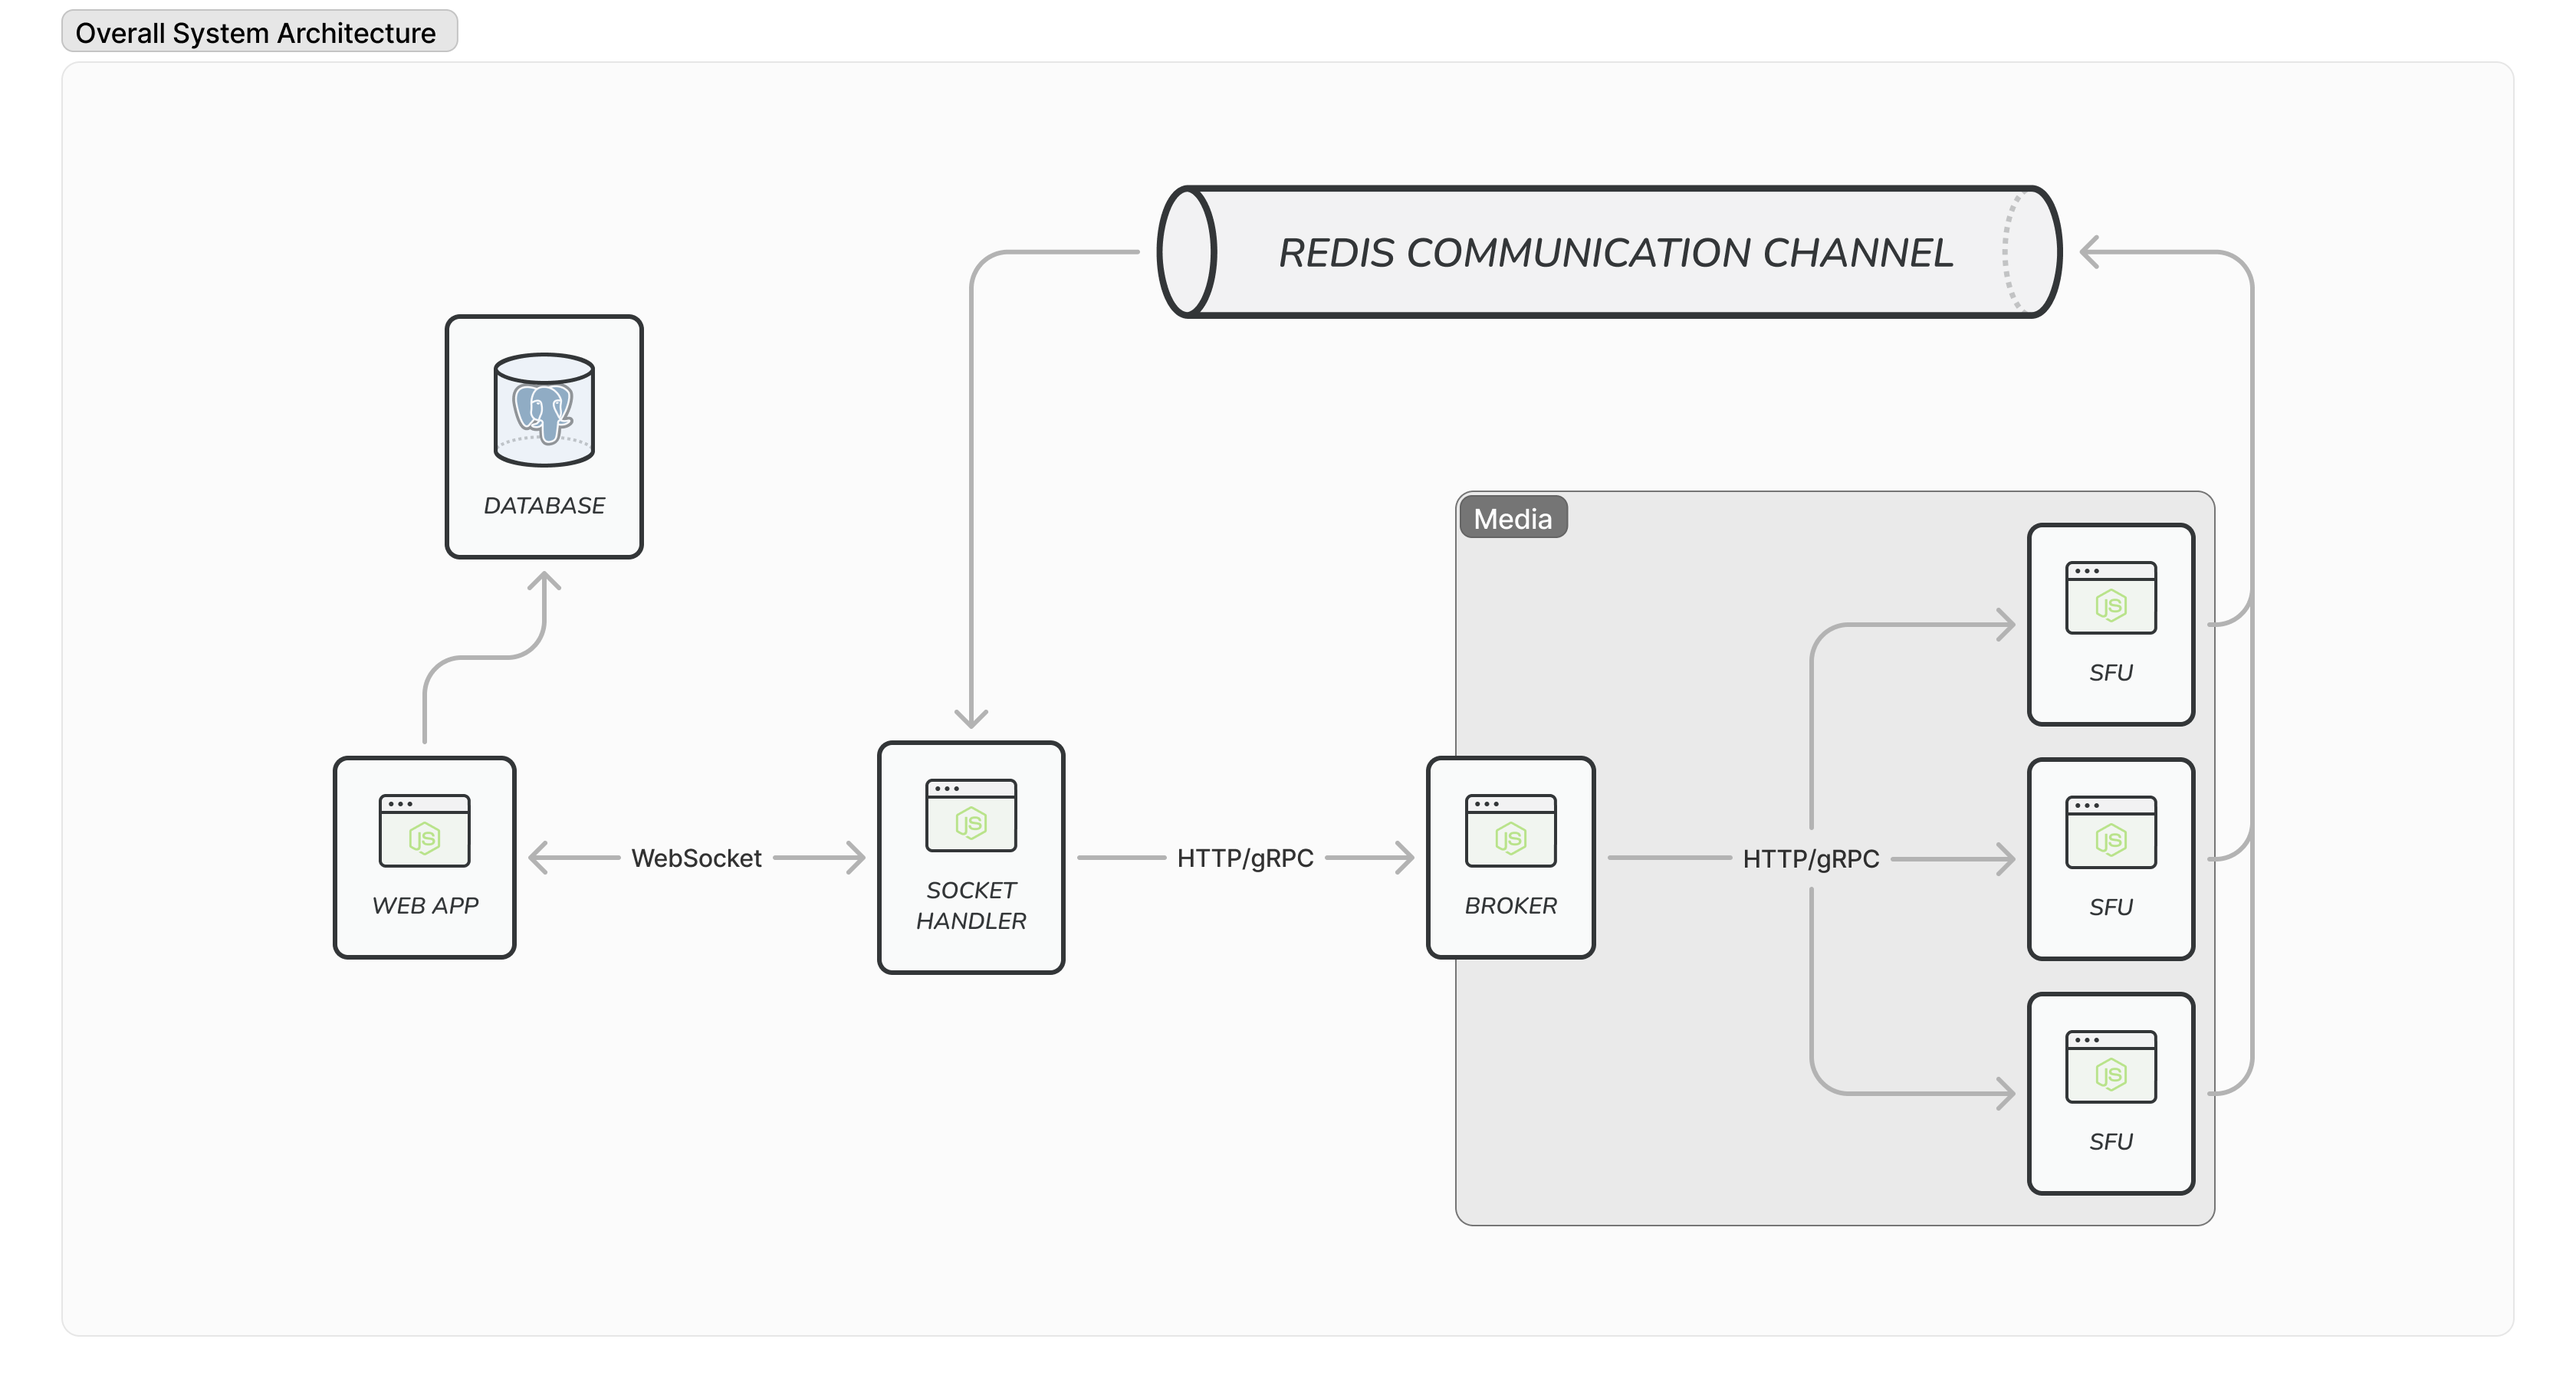
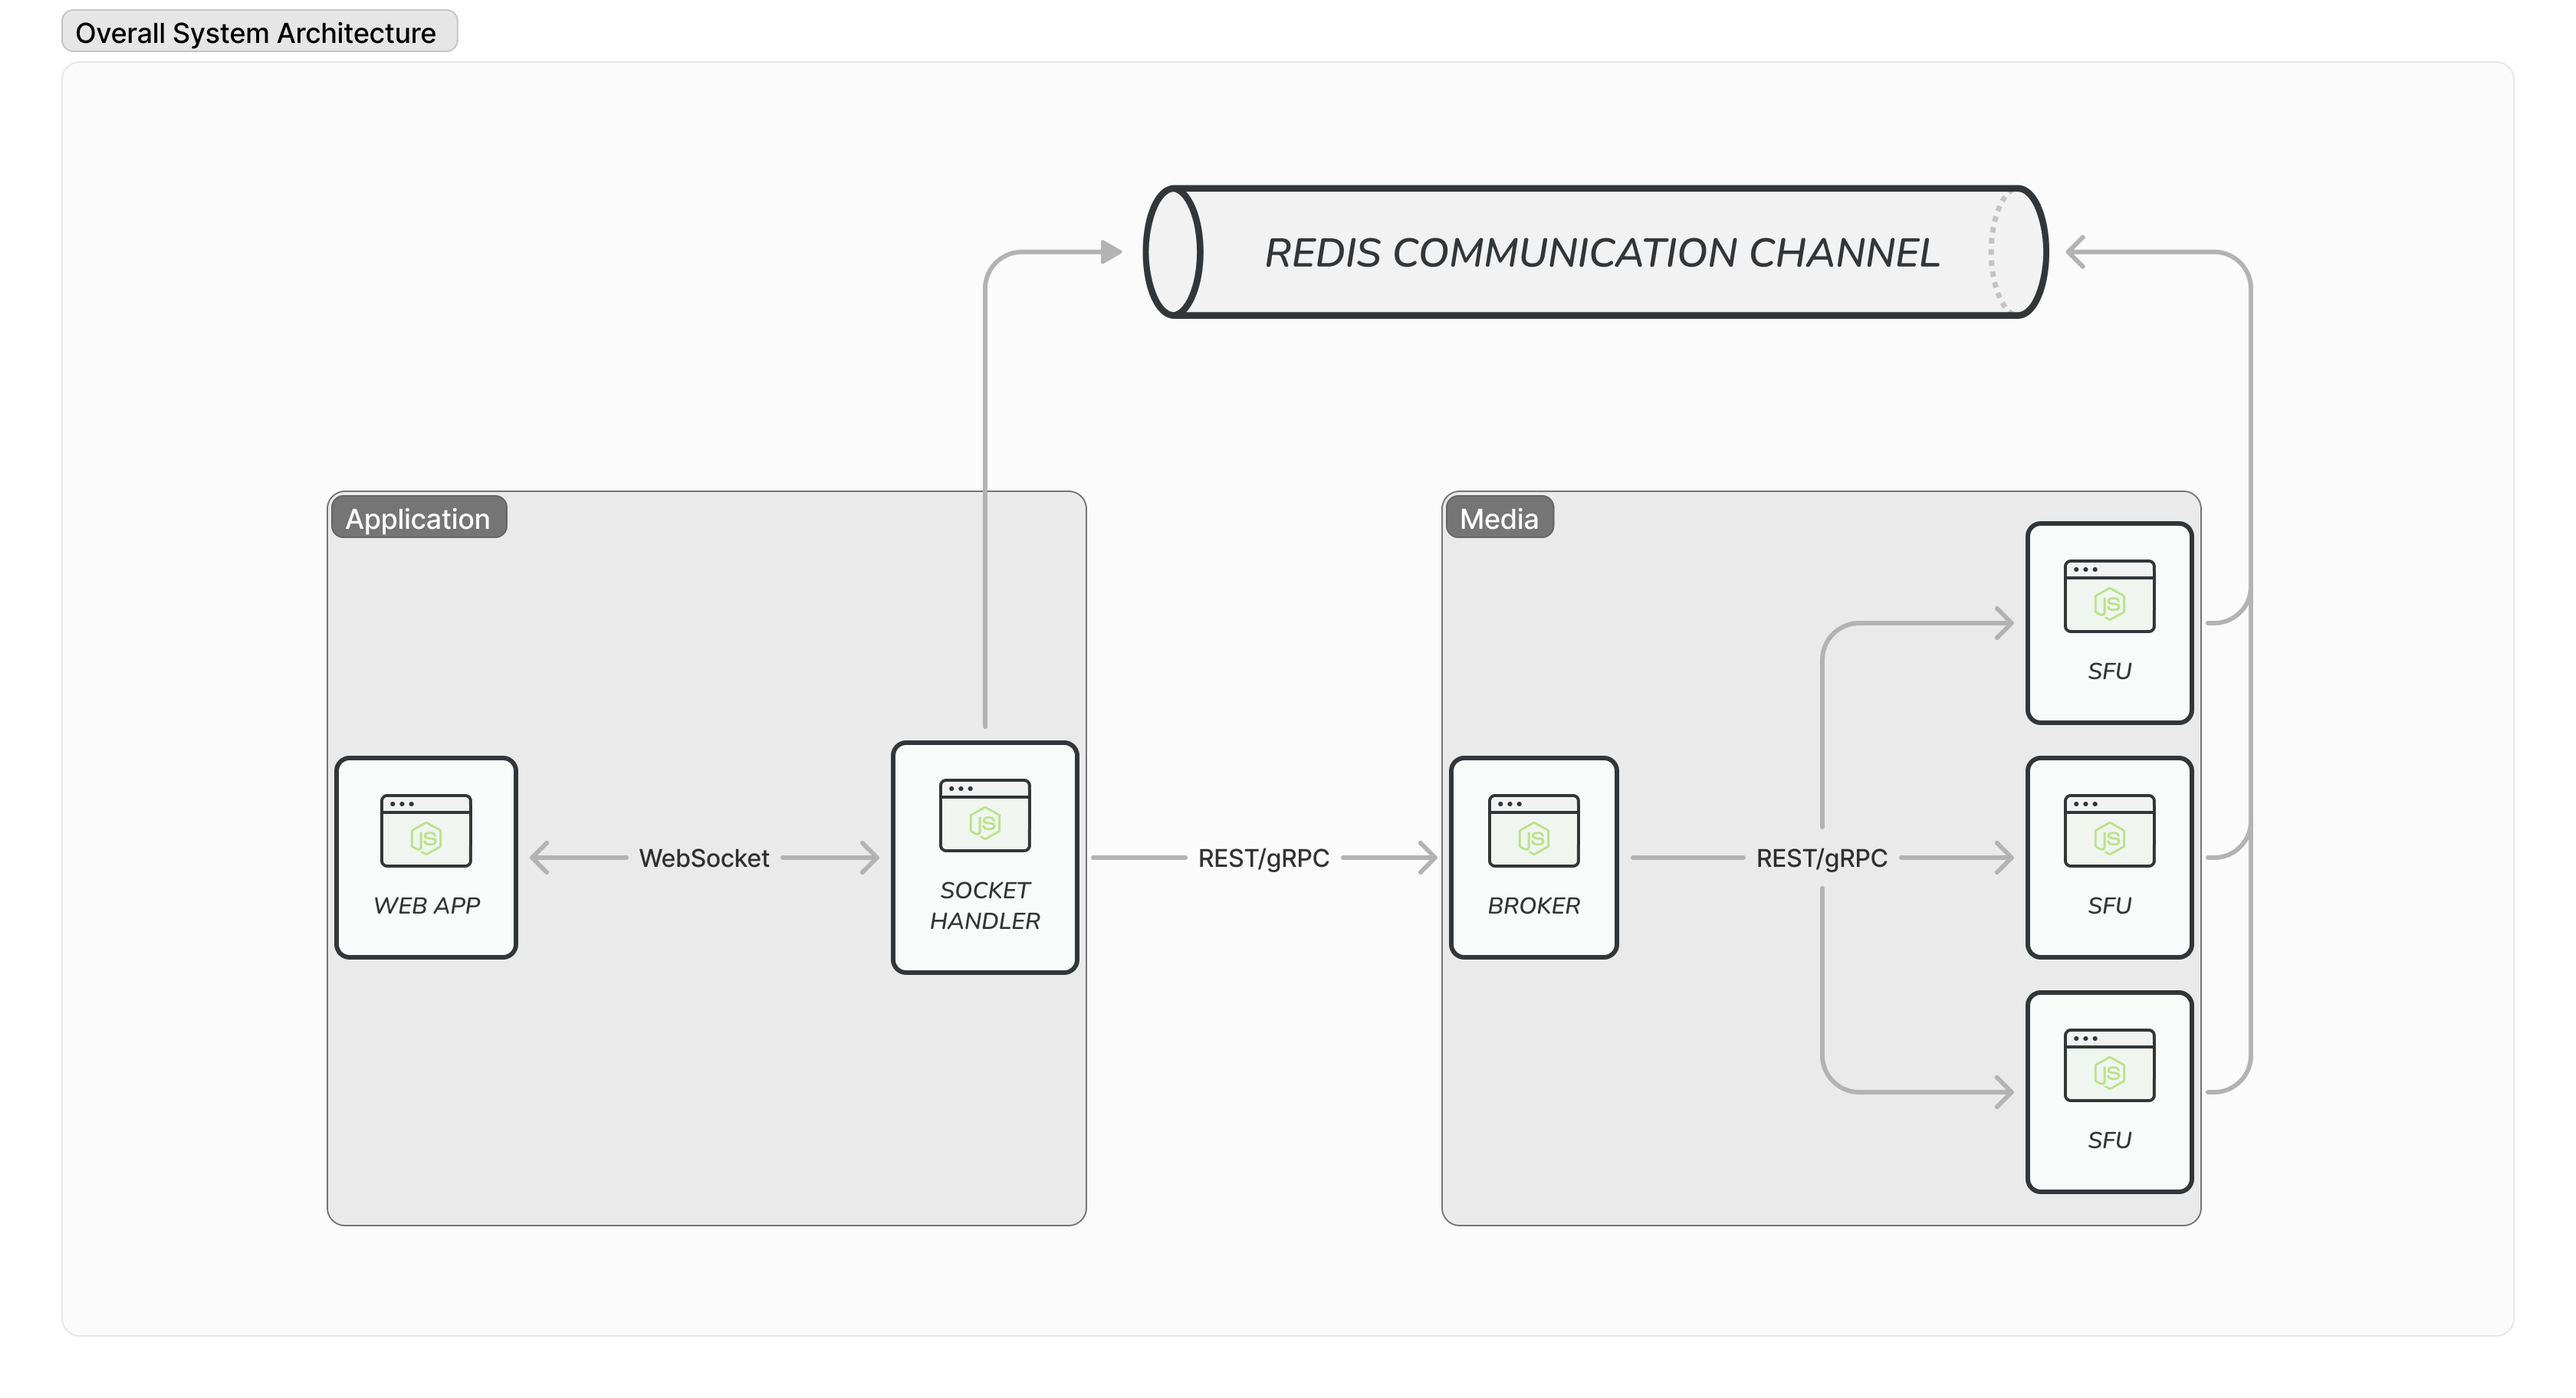
update about

diff --git a/app/about/page.tsx b/app/about/page.tsx
@@ -9,29 +9,44 @@ export default async function Home() {
         <div className="grid grid-cols-2 w-full gap-4">
           <div>
             <p>
-              This system consists 4 components: the SFUs, the Broker, the Socket Handler and the Web Application.
+              This system includes four components: the SFUs, the Broker, the Socket Handler, and the Web Application.
             </p>            
             <ol className="list-decimal list-inside">
               <li>The <b>SFUs</b> (Selective Forwarding Units) manage the logic of meetings and their attendees in the media plane.</li>
-              <li>The <b>Broker</b> works similarly to a reversed proxy: it selectively picks an SFU for instantiating a meeting and forwards each command to an appropriate SFU.</li>
+              <li>The <b>Broker</b> works similarly to a reversed proxy: it selectively picks an SFU for instantiating a meeting and forwards each command to the appropriate SFU.</li>
               <li>The <b>Socket Handler</b> handles the connections of attendees in each meeting. It also acts as an instant messaging service that notifies attendees about events that have taken place.</li>
-              <li>The <b>Web Application</b> is an interactive web application that users use to start and join a video conference.</li>
+              <li>The <b>Web Application</b> is an interactive web application that users use to start and join video conferences.</li>
             </ol>
             <br />
 
             <p>
-              At this moment, we choose <a href="https://mediasoup.org/" className="underline">mediasoup</a> to implement the SFUs for its performance, signaling agnostic and working seamlessly on many operating systems.
+              Currently, we choose <a href="https://mediasoup.org/" className="underline">mediasoup</a> to implement the SFUs because of its performance, signaling agnostic, scalability, and working seamlessly on many operating systems.
             </p>
             <br />
 
             <p>
-              The Broker maintains an in-memory hash map storing information about each meeting and its corresponding SFU&apos;s address. Of course, we can move that hash map to persistent storage to make the Broker stateless and scale out to multiple nodes to produce higher availability. We keep the map in memory for simplicity. The round-robin algorithm is applied to select an SFU for a new meeting.
+              The Broker maintains an in-memory hash map storing information about each meeting and its corresponding SFU&apos;s address. For simplicity, we adopt the round-robin algorithm to select an SFU for a new meeting.
             </p>
             <br />
 
             <p>
-              Most of the communication methods used in the system are synchronous, but there are some cases when the SFUs want to notify attendees to perform appropriate actions on local machines.
-              To decouple the SFUs and the Socket Handler, <a href="https://redis.io/" className="underline">Redis</a> is used as the communication channel because of its simplicity and low latency.
+              We use <a href="https://nextjs.org/" className="underline">Next.js</a> for the Web Application and <a href="https://socket.io/" className="underline">socket.io</a> for the Socket Handler. Because the application logic other than the media itself is relatively small, we decided to put all the application logic into the Socket Handler.
+              For complex scenarios, we suggest separating the application logic into another server.
+            </p>
+            <br />
+
+            <p>
+              Most of the communication methods used in the system are synchronous. There are still some cases when the SFUs want to notify attendees to perform appropriate actions on local machines, which requires a communication channel between the SFUs and the Socket Handler. We decided to utilize <a href="https://redis.io/" className="underline">Redis</a> because of its simplicity, reliability, and low latency.
+            </p>
+            <br />
+
+            <p>
+              The system can be horizontally scalable in the following ways:
+              <ol className="list-decimal list-inside">
+                <li>Move the in-memory map to a remote storage service to make the Broker stateless.</li>
+                <li>Adapt Redis backplane to the Socket Handler.</li>
+                <li>The Next.js Web Application is naturally horizontally scalable.</li>
+              </ol>
             </p>
           </div>
           <div>
